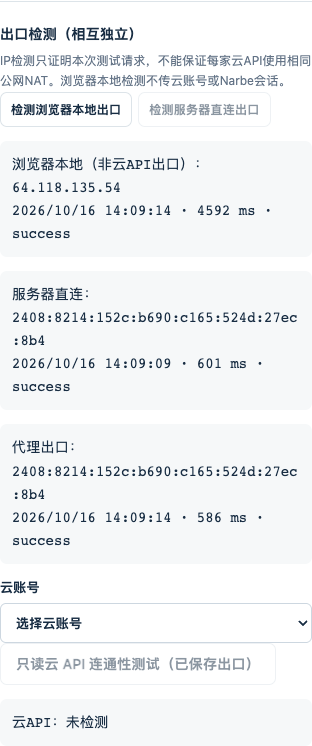
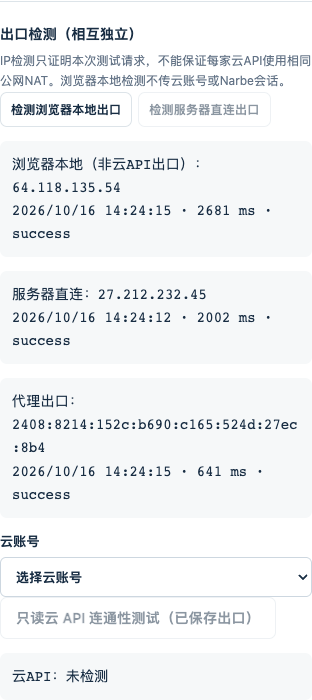
fix: keep direct egress diagnostic metadata independent of proxy authentication

diff --git a/internal/app/network.go b/internal/app/network.go
@@ -330,7 +330,9 @@ func (a *App) networkTest(w http.ResponseWriter, r *http.Request) {
 			if res.StatusCode == 200 && err == nil && pe == nil && addr.IsGlobalUnicast() && !addr.IsPrivate() {
 				out["status"] = "success"
 				out["ip"] = addr.String()
-				out["proxyAuthentication"] = "本次请求已通过代理（如配置认证）"
+				if mode == "proxy" {
+					out["proxyAuthentication"] = "本次请求已通过代理（如配置认证）"
+				}
 			} else if res.StatusCode == 407 {
 				out["message"] = "代理认证失败"
 			} else {
